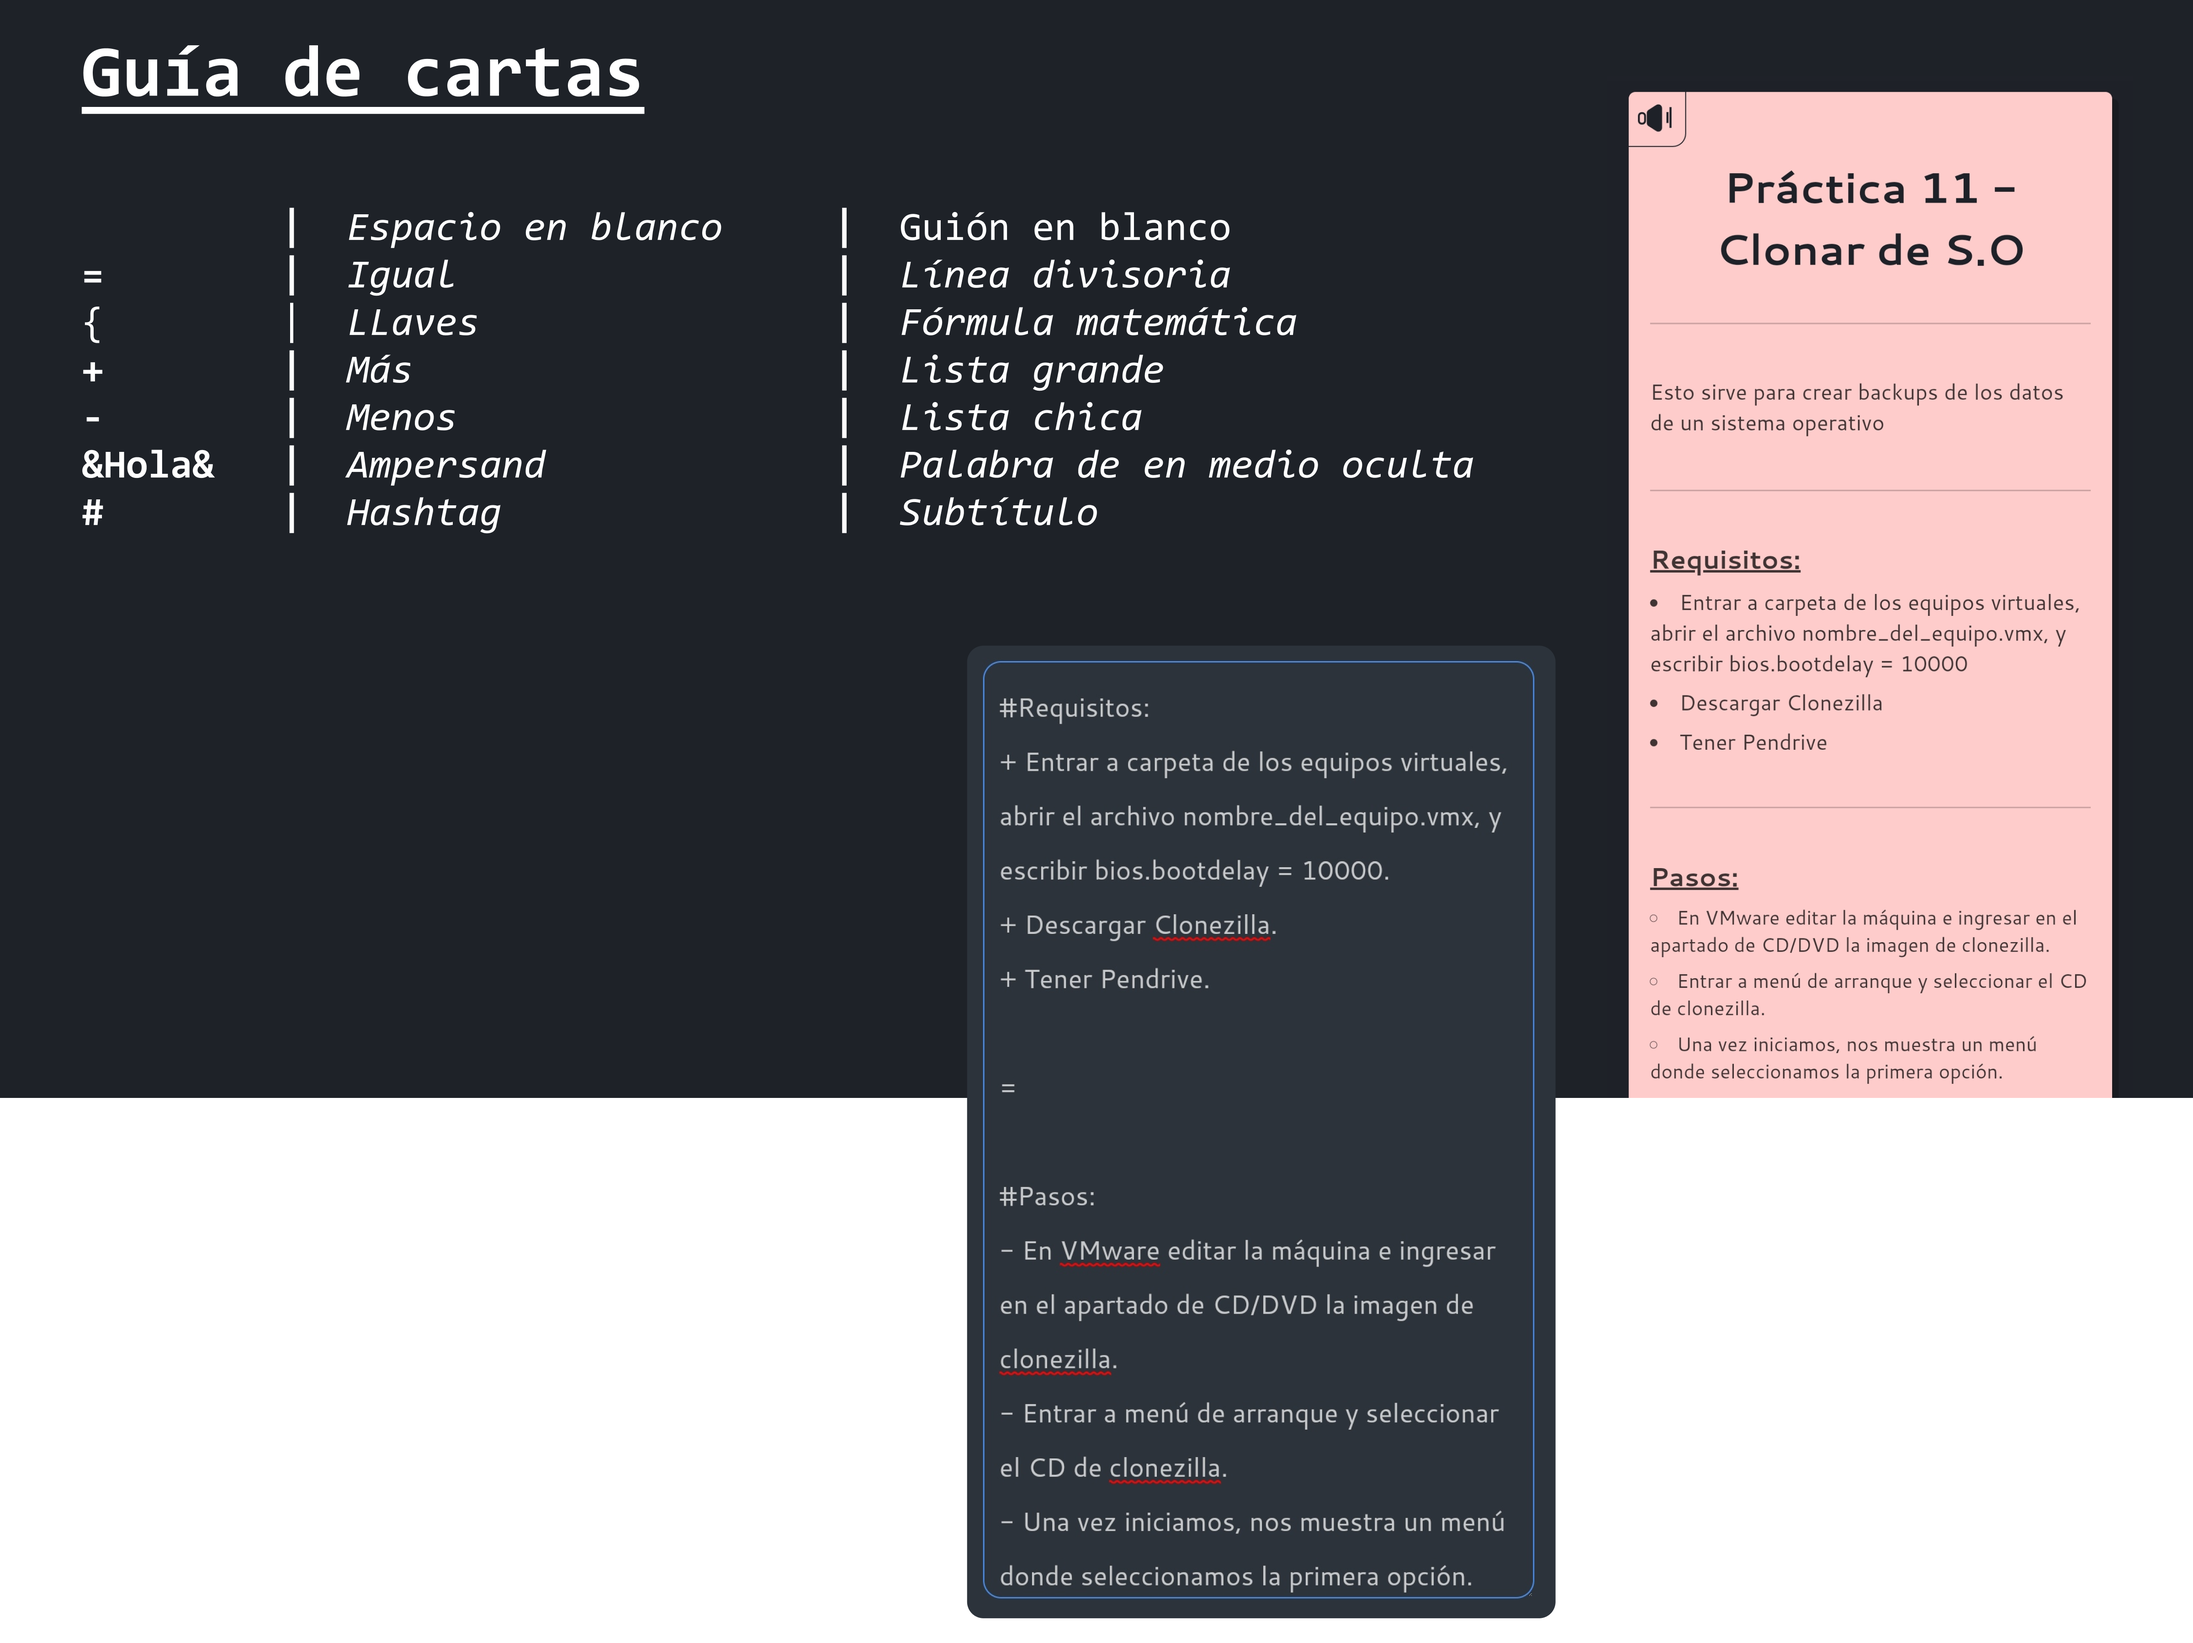
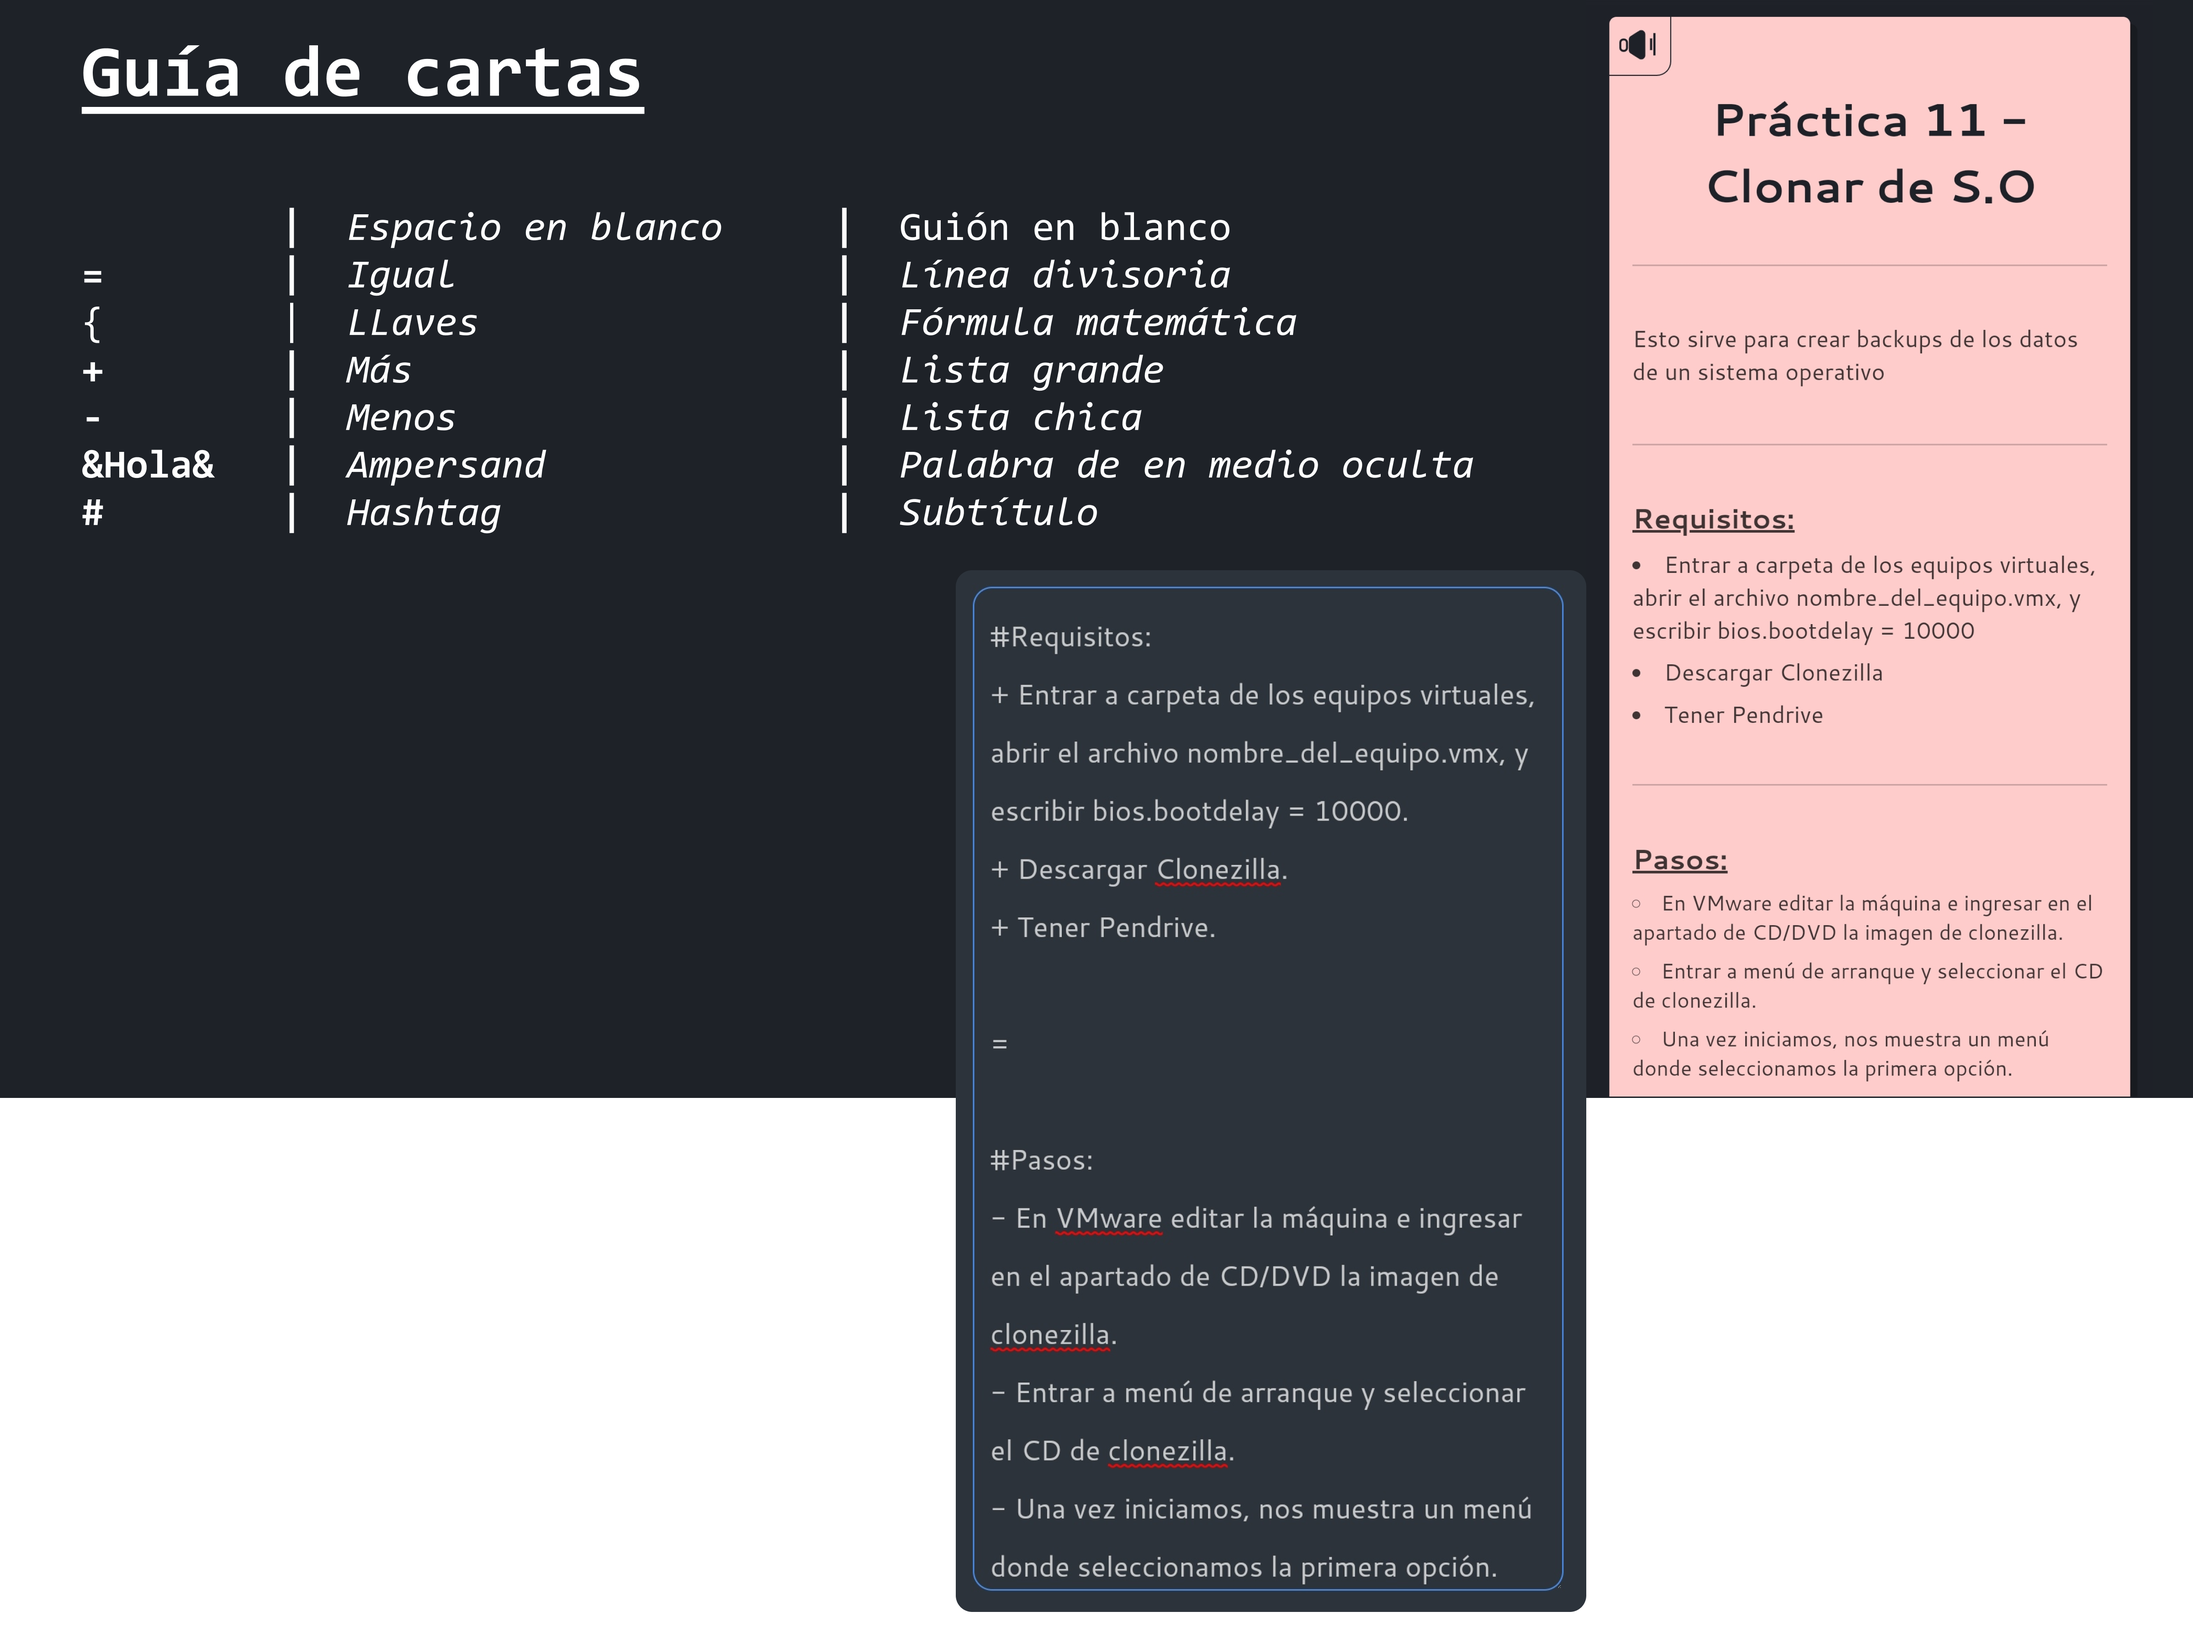
Cambios minimos en imagenes y estilo de materia

Changed region(s): [[0.4375, 0.0, 0.9688, 0.9967]]

diff --git a/public/assets/css/materias.css b/public/assets/css/materias.css
@@ -21,7 +21,7 @@
     padding: 1rem;
     margin: 1rem auto;
     color: var(--blanco);
-    max-width: 320px;
+    max-width: 350px;
     width: 100%;
     background-color: var(--gris-claro);
     box-shadow: 8px 8px var(--gris-oscuro);
